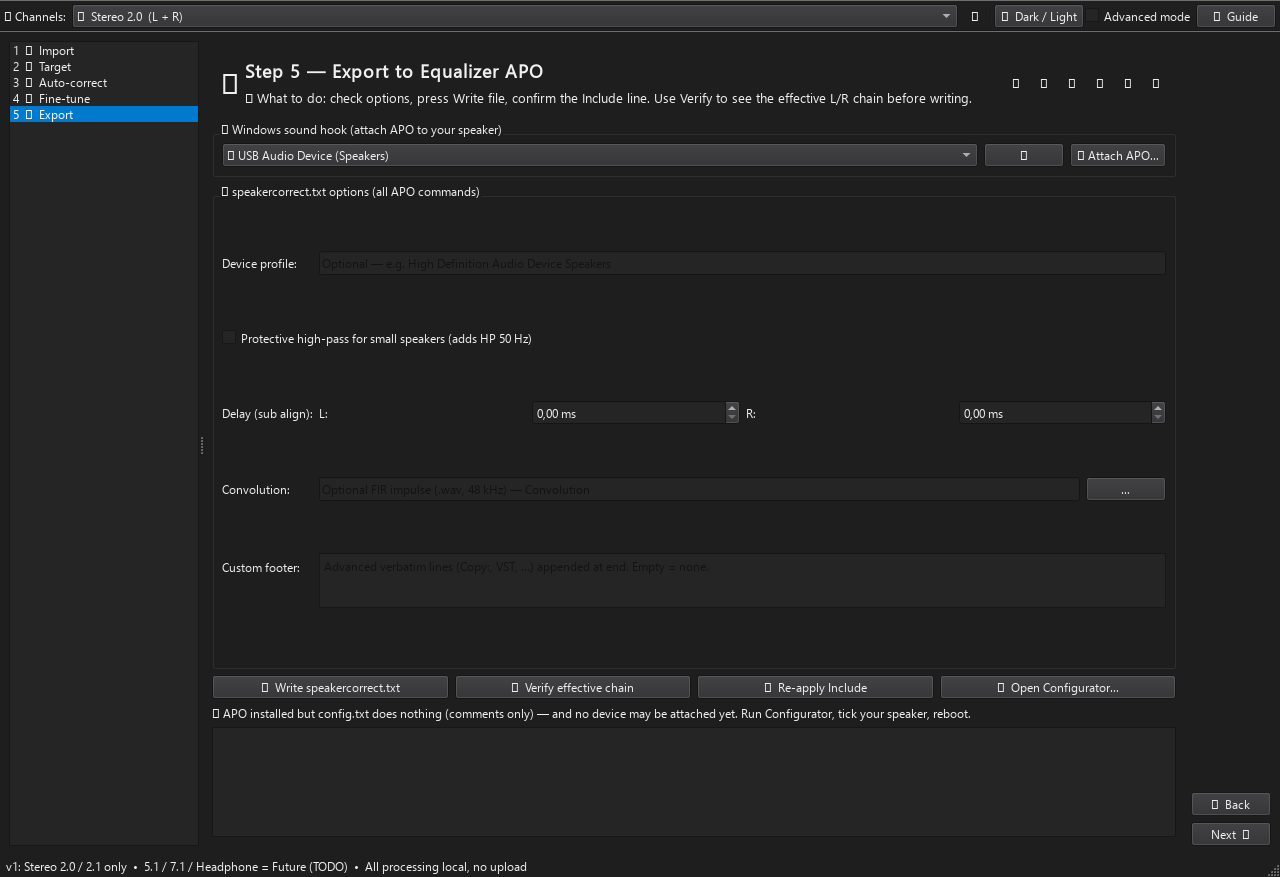
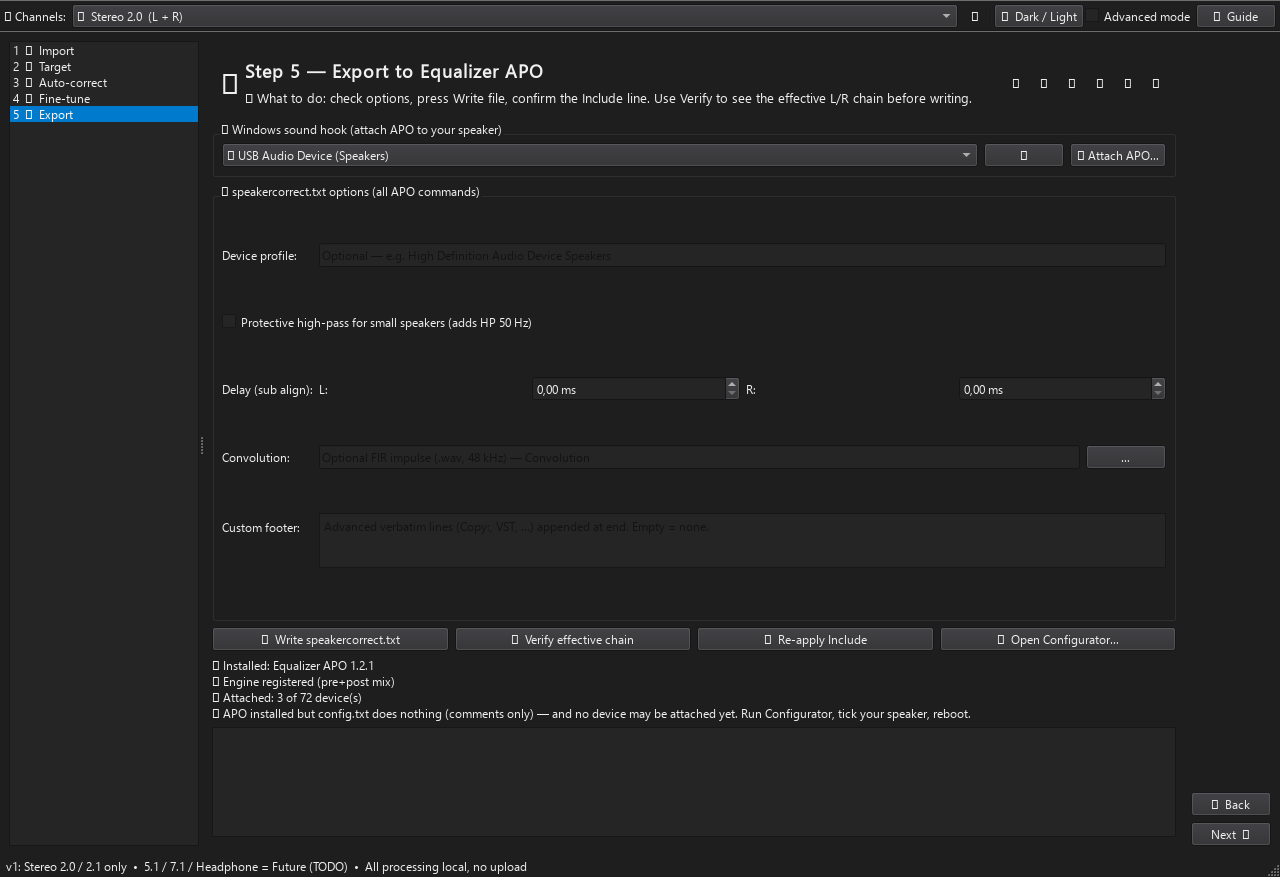
feat(hook-status): 4-point checklist (version/registration/attach/config) + repair

diff --git a/src/harmo_dsp/dsp/apo_setup.py b/src/harmo_dsp/dsp/apo_setup.py
@@ -93,3 +93,89 @@ def open_configurator(config_dir: str | None) -> bool:
         except OSError:
             continue
     return False
+
+
+def _key_exists(hive, path: str) -> bool:
+    try:
+        import winreg
+        with winreg.OpenKey(hive, path, 0, winreg.KEY_READ):
+            return True
+    except OSError:
+        return False
+
+
+def apo_registration_ok(hive=None, classes_root: str = r"SOFTWARE\Classes") -> tuple[bool, bool]:
+    """Engine COM registration present? (pre-mix, post-mix).
+
+    Hive/root injectable so tests use an HKCU sandbox instead of HKLM.
+    """
+    try:
+        import winreg
+    except ImportError:
+        return False, False
+    hive = hive if hive is not None else winreg.HKEY_LOCAL_MACHINE
+    from .apo_attach import PRE_MIX, POST_MIX
+    ok = []
+    for guid in (PRE_MIX.strip("{}"), POST_MIX.strip("{}")):
+        present = (
+            _key_exists(hive, f"{classes_root}\\AudioEngine\\AudioProcessingObjects\\{{{guid}}}")
+            or _key_exists(hive, f"{classes_root}\\CLSID\\{{{guid}}}"))
+        ok.append(present)
+    return ok[0], ok[1]
+
+
+def installed_version() -> str | None:
+    """DisplayVersion from the Uninstall registry (e.g. '1.2.1')."""
+    try:
+        import winreg
+    except ImportError:
+        return None
+    base = r"SOFTWARE\Microsoft\Windows\CurrentVersion\Uninstall"
+    try:
+        with winreg.OpenKey(winreg.HKEY_LOCAL_MACHINE, base, 0,
+                             winreg.KEY_READ) as root:
+            for i in range(winreg.QueryInfoKey(root)[0]):
+                try:
+                    sub = winreg.EnumKey(root, i)
+                    with winreg.OpenKey(root, sub, 0, winreg.KEY_READ) as k:
+                        try:
+                            name, _ = winreg.QueryValueEx(k, "DisplayName")
+                        except OSError:
+                            continue
+                        if isinstance(name, str) and "equalizer apo" in name.lower():
+                            try:
+                                ver, _ = winreg.QueryValueEx(k, "DisplayVersion")
+                                return str(ver)
+                            except OSError:
+                                return "?"
+                except OSError:
+                    continue
+    except OSError:
+        pass
+    return None
+
+
+def full_report(config_dir: str | None = None) -> dict:
+    """4-point machine report: install, engine registration, attach, config."""
+    from . import apo_attach as A
+    cfg = config_dir or find_config_dir()
+    try:
+        devs = A.enumerate_devices()
+    except Exception:
+        devs = []
+    attached = [d for d in devs if d.attached]
+    pre_ok, post_ok = apo_registration_ok()
+    ver = installed_version()
+    cfg_state, cfg_msg = status(cfg)
+    lines = [
+        ("✓ Installed: Equalizer APO " + ver) if ver
+        else "✗ Equalizer APO not installed",
+        "✓ Engine registered (pre+post mix)" if (pre_ok and post_ok)
+        else "✗ Engine registration missing (pre=%s post=%s)" % (pre_ok, post_ok),
+        ("✓ Attached: %d of %d device(s)" % (len(attached), len(devs)))
+        if attached else ("✗ Attached: 0 of %d device(s)" % len(devs)),
+        cfg_msg,
+    ]
+    return {"installed_version": ver, "reg_pre": pre_ok, "reg_post": post_ok,
+            "devices": devs, "attached": attached,
+            "config_state": cfg_state, "lines": lines}

diff --git a/src/harmo_dsp/ui/pages.py b/src/harmo_dsp/ui/pages.py
@@ -669,11 +669,15 @@ class ExportPage(QWidget):
         self.btn_configurator = QPushButton("🔧  Open Configurator…")
         self.btn_configurator.setToolTip("Tick your speaker device (admin), then reboot — this attaches APO to Windows sound")
         self.btn_configurator.clicked.connect(self._open_configurator)
+        self.btn_repair = QPushButton("🩹  Repair registration…")
+        self.btn_repair.setToolTip("Re-register the APO engine (official regsvr32 fix). Needs admin.")
+        self.btn_repair.clicked.connect(self._repair_registration)
         brow.addWidget(self.btn_write)
         brow.addWidget(self.btn_verify)
         brow.addWidget(self.btn_reapply)
         brow.addWidget(self.btn_setup)
         brow.addWidget(self.btn_configurator)
+        brow.addWidget(self.btn_repair)
         lay.addLayout(brow)
         self.status = QLabel("Equalizer APO status: checking…")
         lay.addWidget(self.status)
@@ -746,16 +750,39 @@ class ExportPage(QWidget):
 
     # ---- helpers ----
     def _detect_apo(self):
-        from ..dsp.apo_setup import find_config_dir, status
+        from ..dsp.apo_setup import find_config_dir, full_report
         found = find_config_dir([self.APO_DIR])
         if found and found != self.APO_DIR:
             self.APO_DIR = found
         self._apo_dir = find_config_dir([self.APO_DIR])
-        state, msg = status(self._apo_dir)
-        self._apo_state = state
-        self.status.setText(msg)
-        self.btn_setup.setVisible(state == "missing")
-        self.btn_configurator.setVisible(state in ("idle", "peace-idle"))
+        rep = full_report(self._apo_dir)
+        self._apo_state = rep["config_state"]
+        self.status.setText("\n".join(rep["lines"]))
+        self.status.setWordWrap(True)
+        self.btn_setup.setVisible(rep["installed_version"] is None)
+        reg_ok = rep["reg_pre"] and rep["reg_post"]
+        self.btn_repair.setVisible(rep["installed_version"] is not None and not reg_ok)
+        self.btn_configurator.setVisible(rep["config_state"] in ("idle", "peace-idle"))
+
+    def _repair_registration(self):
+        import os
+        import sys
+        from PySide6.QtWidgets import QMessageBox
+        helper = os.path.normpath(os.path.join(
+            os.path.dirname(os.path.abspath(__file__)),
+            "..", "..", "tools", "attach_apo.py"))
+        try:
+            import ctypes
+            rc = ctypes.windll.shell32.ShellExecuteW(
+                None, "runas", sys.executable, f'"{helper}" --repair',
+                None, 1)
+            if rc <= 32:
+                raise OSError(f"elevated launch failed (code {rc})")
+        except Exception as e:
+            QMessageBox.warning(self, "Repair", f"Could not start elevated helper:\n{e}")
+            return
+        QMessageBox.information(self, "Repair",
+                                "After the helper finishes, press ↻ — engine lines should turn ✓.")
 
     def _show_apo_guide(self):
         from PySide6.QtWidgets import QMessageBox

diff --git a/tests/test_apo_setup.py b/tests/test_apo_setup.py
@@ -30,6 +30,35 @@ def test_official_url_is_sourceforge():
     assert S.OFFICIAL_URL.startswith("https://sourceforge.net/projects/equalizerapo")
 
 
+def test_registration_check_against_hkcu_sandbox():
+    import winreg
+    from harmo_dsp.dsp import apo_attach as A
+    root = r"Software\HarmoDspTest\Classes"
+    for guid in (A.PRE_MIX.strip("{}"), A.POST_MIX.strip("{}")):
+        with winreg.CreateKey(winreg.HKEY_CURRENT_USER,
+                              f"{root}\\AudioEngine\\AudioProcessingObjects\\{{{guid}}}"):
+            pass
+    try:
+        assert S.apo_registration_ok(winreg.HKEY_CURRENT_USER, root) == (True, True)
+        assert S.apo_registration_ok(winreg.HKEY_CURRENT_USER,
+                                      root + r"\Nope") == (False, False)
+    finally:
+        import shutil  # best-effort cleanup (registry has no rmtree)
+        for guid in (A.PRE_MIX.strip("{}"), A.POST_MIX.strip("{}")):
+            try:
+                winreg.DeleteKey(winreg.HKEY_CURRENT_USER,
+                                 f"{root}\\AudioEngine\\AudioProcessingObjects\\{{{guid}}}")
+            except OSError:
+                pass
+
+
+def test_full_report_shape_machine_independent():
+    rep = S.full_report()
+    assert set(rep) >= {"installed_version", "reg_pre", "reg_post",
+                        "devices", "attached", "config_state", "lines"}
+    assert isinstance(rep["lines"], list) and len(rep["lines"]) == 4
+
+
 def test_configurator_candidates_resolve_to_real_exe():
     cands = S.candidate_configurators(S.find_config_dir())
     assert cands and cands[0].endswith("Configurator.exe")

diff --git a/tools/attach_apo.py b/tools/attach_apo.py
@@ -78,6 +78,23 @@ def cmd_list():
                       for d in A.enumerate_devices()], indent=1))
 
 
+def cmd_repair():
+    """Official fix (mirrors checkAPORegistration): regsvr32 the APO DLL."""
+    if not is_admin():
+        elevate()
+    import subprocess
+    from harmo_dsp.dsp.apo_setup import find_config_dir
+    d = find_config_dir()
+    dll = os.path.join(os.path.dirname(d), "EqualizerAPO.dll") if d else ""
+    if not dll or not os.path.isfile(dll):
+        print(json.dumps({"ok": False, "error": "EqualizerAPO.dll not found"}))
+        sys.exit(3)
+    rc = subprocess.run(["regsvr32.exe", "/s", dll]).returncode
+    print(json.dumps({"ok": rc == 0, "rc": rc,
+                      "note": "Re-run status check afterwards."}))
+    sys.exit(0 if rc == 0 else 3)
+
+
 def cmd_attach(guid, use_original=True):
     if not is_admin():
         elevate()
@@ -166,11 +183,15 @@ if __name__ == "__main__":
     ap.add_argument("--list", action="store_true")
     ap.add_argument("--attach", metavar="DEVICE-GUID")
     ap.add_argument("--detach", metavar="DEVICE-GUID")
+    ap.add_argument("--repair", action="store_true",
+                    help="re-register EqualizerAPO.dll (official regsvr32 fix)")
     ap.add_argument("--no-original", action="store_true",
                     help="do not chain original vendor APO (not recommended)")
     a = ap.parse_args()
     if a.list:
         cmd_list()
+    elif a.repair:
+        cmd_repair()
     elif a.attach:
         cmd_attach(a.attach, use_original=not a.no_original)
     elif a.detach:
